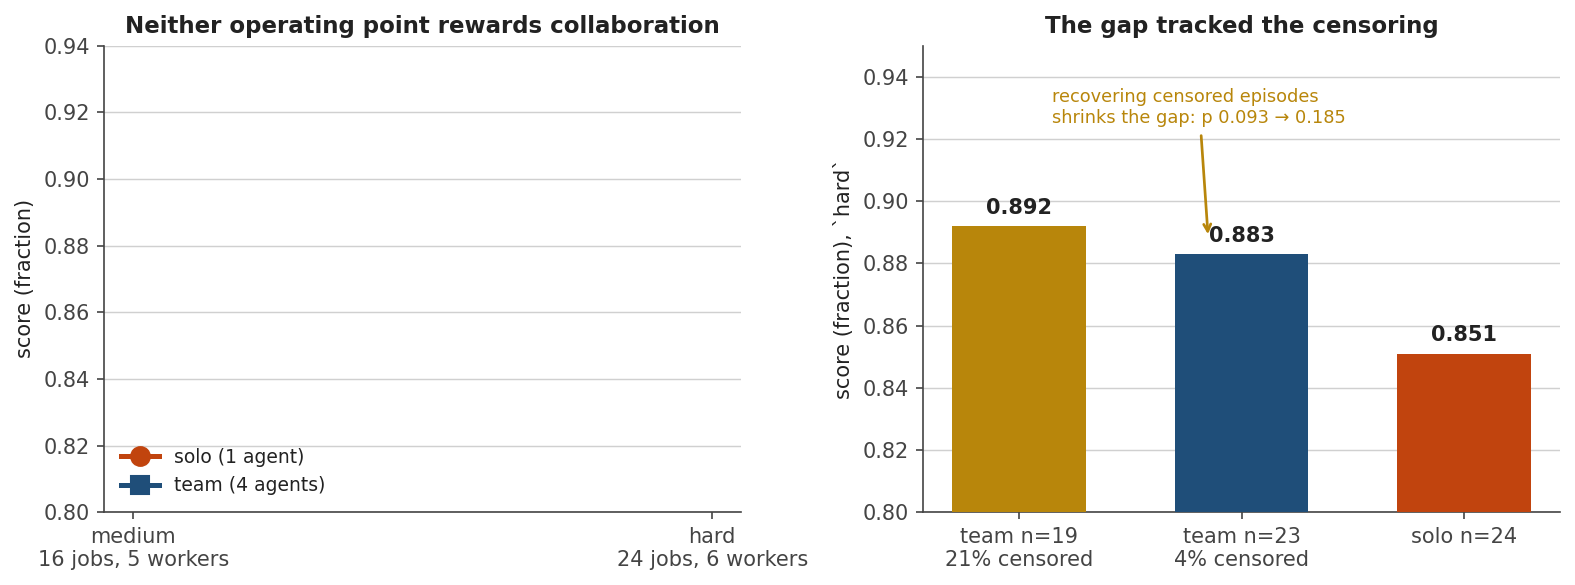
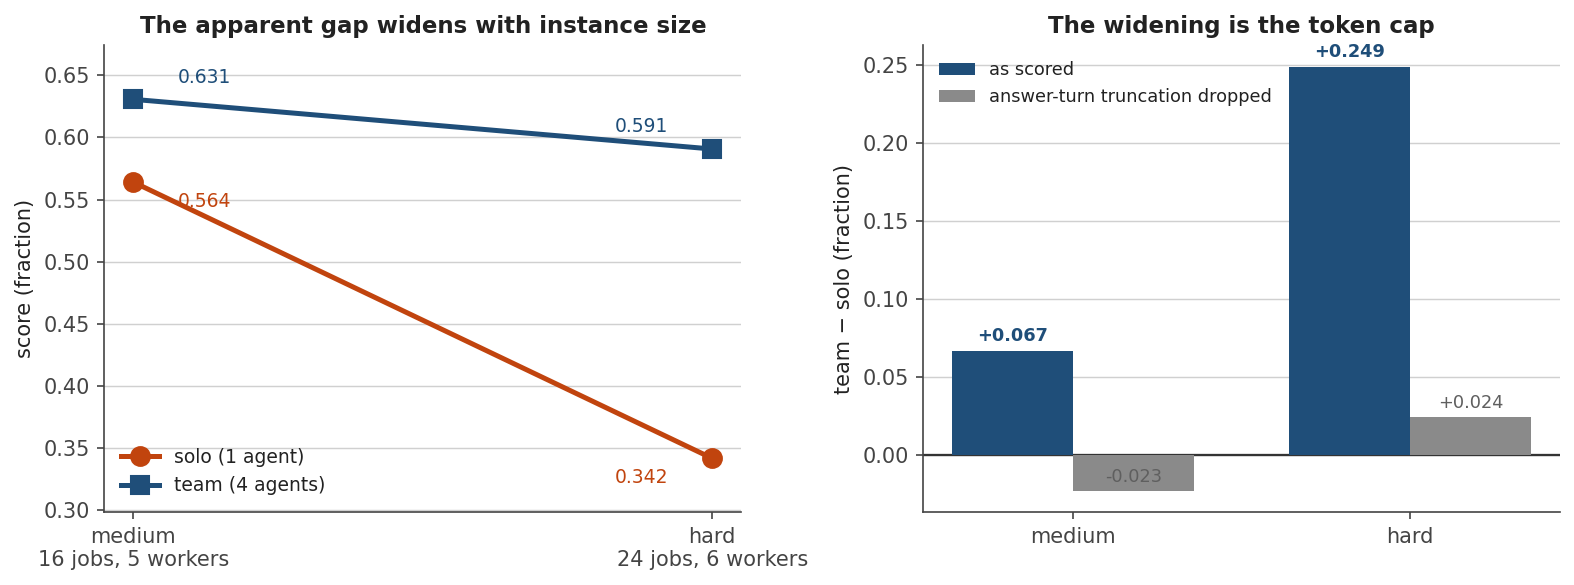
Rebuild the curve figure from the corpora, and refuse partial tiers
fig_curve took one tier from --run-dir and plotted it as `hard` against
`medium` read from a config, so running the script against the medium
directory plotted medium as both points. I did exactly that this morning
and committed the result. Its right panel was worse: three transcribed
bf16 constants that no longer describe any corpus on disk.

Both tiers now come from their own config-derived run directories, and the
right panel is computed rather than transcribed -- headline gap against the
gap with answer-turn truncation dropped. That is 4.10's finding as a
picture: the headline widens +0.067 -> +0.249 across difficulty and the
sensitivity does not move off zero.

Also refuses to plot a tier still generating. The first regeneration drew
xhard from 25 of its 48 episodes and put a point on a published curve that
nothing on disk would reproduce an hour later. Completeness is counted
before the integrity filter, so a real instrument failure cannot make a
finished tier look unfinished.

diff --git a/scripts/figures.py b/scripts/figures.py
@@ -18,7 +18,7 @@ from __future__ import annotations
 import argparse
 import random
 import statistics as st
-from collections import defaultdict
+from collections import Counter, defaultdict
 from pathlib import Path
 
 import matplotlib
@@ -298,31 +298,60 @@ def fig_selftest(out: Path) -> None:
     plt.close(fig)
 
 
-def fig_curve(hard, out: Path) -> None:
-    """Both operating points, and what the OOM dropouts did to one of them.
+TIER_LABELS = {
+    "medium": "medium\n16 jobs, 5 workers",
+    "hard": "hard\n24 jobs, 6 workers",
+    "xhard": "xhard\n36 jobs, 8 workers",
+}
 
-    The right panel is the methodological point: the same three episodes are
-    present or absent, and that alone moves `feasible` from a project-reviving
-    effect to nothing.
+
+def fig_curve(_unused, out: Path) -> bool:
+    """The difficulty curve, and the reason it cannot be read on its own.
+
+    Every tier comes from its own config-derived run directory. The previous
+    version took one tier from `--run-dir` and plotted it as `hard` against
+    `medium` read from a config -- so running the script against the medium
+    directory silently plotted medium as both points. The right panel was worse:
+    three transcribed bf16 constants that no longer described any corpus on
+    disk. Both are the same mistake as the stale solo path, and a figure gets
+    that mistake past review more easily than a table does.
+
+    The right panel is now the methodological point, computed rather than
+    transcribed: the headline gap against the gap with answer-turn truncation
+    dropped. The headline trends upward across difficulty and the sensitivity
+    does not, because the cap falls on solo's answer turn and not the team's
+    (RESEARCH-LOG 4.10).
     """
-    med_dir = _run_dir("configs/llamacpp-medium.yaml")
-    if not (med_dir / "baseline.jsonl").exists():
-        print(f"no corpus at {med_dir}; skipping curve.png")
+    tiers = []
+    for tier in ("medium", "hard", "xhard"):
+        cfg = f"configs/llamacpp-{tier}.yaml"
+        if not Path(cfg).exists():
+            continue
+        run_dir = _run_dir(cfg)
+        if not (run_dir / "baseline.jsonl").exists():
+            continue
+        # A tier still generating has both arms present and neither finished,
+        # and its means move for as long as it runs. Plotted anyway it is a
+        # point on a published curve that nothing on disk will reproduce an
+        # hour later -- caught here after a mid-run regeneration drew `xhard`
+        # from 25 of its 48 episodes.
+        if not _tier_complete(cfg, run_dir):
+            print(f"{tier}: incomplete, excluded from curve.png")
+            continue
+        by = load(run_dir)
+        if not (by["fraction"].get("solo") and by["fraction"].get("baseline")):
+            continue
+        tiers.append((tier, run_dir, by))
+
+    if len(tiers) < 2:
+        print("need at least two tiers with both arms; skipping curve.png")
         return False
-    med = load(med_dir)
-    # Both medium arms live in the same run directory. Reading solo from
-    # runs/medium-corpus was correct until 24 fresh solo episodes were
-    # generated beside the team arm; after that it silently plotted the stale
-    # 12-episode mean (0.879) against the new team mean, overstating the gap by
-    # 0.031. The same bug was fixed in gate_report.py and missed here, because
-    # a figure that looks plausible is not checked the way a table is.
-    solo_med = med
 
     fig, (ax1, ax2) = plt.subplots(1, 2, figsize=(10.6, 4.0))
+    xs = list(range(len(tiers)))
+    solo = [st.mean(by["fraction"]["solo"]) for _, _, by in tiers]
+    team = [st.mean(by["fraction"]["baseline"]) for _, _, by in tiers]
 
-    xs = [0, 1]
-    solo = [st.mean(solo_med["fraction"]["solo"]), st.mean(hard["fraction"]["solo"])]
-    team = [st.mean(med["fraction"]["baseline"]), st.mean(hard["fraction"]["baseline"])]
     ax1.plot(xs, solo, "o-", color=SOLO, lw=2.4, ms=9, label="solo (1 agent)")
     ax1.plot(xs, team, "s-", color=TEAM, lw=2.4, ms=9, label="team (4 agents)")
     for x, (a, b) in enumerate(zip(solo, team)):
@@ -332,30 +361,42 @@ def fig_curve(hard, out: Path) -> None:
         ax1.annotate(f"{b:.3f}", (x, b), textcoords="offset points",
                      xytext=(side, 8), ha="center", fontsize=9, color=TEAM)
     ax1.set_xticks(xs)
-    ax1.set_xticklabels(["medium\n16 jobs, 5 workers", "hard\n24 jobs, 6 workers"])
+    ax1.set_xticklabels([TIER_LABELS.get(t, t) for t, _, _ in tiers])
     ax1.set_ylabel("score (fraction)")
-    ax1.set_ylim(0.80, 0.94)
-    ax1.set_title("Neither operating point rewards collaboration")
+    lo, hi = min(solo + team), max(solo + team)
+    pad = max(0.03, 0.15 * (hi - lo))
+    ax1.set_ylim(max(0.0, lo - pad), min(1.0, hi + pad))
+    ax1.set_title("The apparent gap widens with instance size")
     ax1.legend(frameon=False, fontsize=9, loc="lower left")
     ax1.grid(axis="y", color=RULE, lw=0.7)
     ax1.set_axisbelow(True)
 
-    # Right: what censoring did to the `hard` team mean. Every time OOM-dropped
-    # episodes were recovered, the team's apparent advantage shrank -- the gap
-    # was tracking what the instrument discarded, not an effect.
-    labels = ["team n=19\n21% censored", "team n=23\n4% censored", "solo n=24"]
-    vals = [0.892, 0.883, 0.851]
-    bars = ax2.bar(labels, vals, color=["#b8860b", TEAM, SOLO], width=0.6, zorder=3)
-    for bar, v in zip(bars, vals):
-        ax2.text(bar.get_x() + bar.get_width() / 2, v + 0.004, f"{v:.3f}",
-                 ha="center", fontsize=10, fontweight="bold")
-    ax2.annotate("recovering censored episodes\nshrinks the gap: p 0.093 → 0.185",
-                 xy=(0.85, 0.888), xytext=(0.15, 0.925), fontsize=8.5,
-                 color="#b8860b", ha="left",
-                 arrowprops=dict(arrowstyle="->", color="#b8860b", lw=1.3))
-    ax2.set_ylabel("score (fraction), `hard`")
-    ax2.set_ylim(0.80, 0.95)
-    ax2.set_title("The gap tracked the censoring")
+    head = [t - s for s, t in zip(solo, team)]
+    sens = []
+    for _, run_dir, _ in tiers:
+        kept = _drop_cut(run_dir)
+        sens.append(
+            st.mean(kept["baseline"]) - st.mean(kept["solo"])
+            if kept["solo"] and kept["baseline"] else float("nan")
+        )
+
+    width = 0.36
+    ax2.bar([x - width / 2 for x in xs], head, width, color=TEAM, zorder=3,
+            label="as scored")
+    ax2.bar([x + width / 2 for x in xs], sens, width, color=GREY, zorder=3,
+            label="answer-turn truncation dropped")
+    for x, (h, s) in enumerate(zip(head, sens)):
+        ax2.text(x - width / 2, h + 0.006, f"{h:+.3f}", ha="center", fontsize=8.5,
+                 color=TEAM, fontweight="bold")
+        if s == s:  # not NaN
+            ax2.text(x + width / 2, s + 0.006, f"{s:+.3f}", ha="center",
+                     fontsize=8.5, color="#5f5f5f")
+    ax2.axhline(0, color="#333333", lw=1.1)
+    ax2.set_xticks(xs)
+    ax2.set_xticklabels([t for t, _, _ in tiers])
+    ax2.set_ylabel("team − solo (fraction)")
+    ax2.set_title("The widening is the token cap")
+    ax2.legend(frameon=False, fontsize=8.5, loc="upper left")
     ax2.grid(axis="y", color=RULE, lw=0.7)
     ax2.set_axisbelow(True)
 
@@ -363,6 +404,32 @@ def fig_curve(hard, out: Path) -> None:
     fig.savefig(out, bbox_inches="tight")
     plt.close(fig)
     return True
+
+
+def _tier_complete(config_path: str, run_dir: Path, name: str = "baseline.jsonl") -> bool:
+    """Both arms present at the episode count the config asks for.
+
+    Counted before the integrity filter: a genuine instrument failure should not
+    make a finished tier look unfinished, and it is already accounted for in the
+    `unusable` column of every report.
+    """
+    from collabengine.config import ExperimentConfig
+
+    want = ExperimentConfig.load(config_path).n_episodes
+    seen: Counter[str] = Counter()
+    for rec in TranscriptReader(str(run_dir / name)):
+        seen[rec.condition] += 1
+    return seen["solo"] >= want and seen["baseline"] >= want
+
+
+def _drop_cut(run_dir: Path, name: str = "baseline.jsonl") -> dict[str, list[float]]:
+    """`fraction` per condition with answer-turn-truncated episodes removed."""
+    out: dict[str, list[float]] = defaultdict(list)
+    for rec in TranscriptReader(str(run_dir / name)):
+        if is_instrument_failure(rec) or final_turn_truncated(rec):
+            continue
+        out[rec.condition].append(rescore(rec).overall["fraction"])
+    return out
 
 
 def main() -> None:
